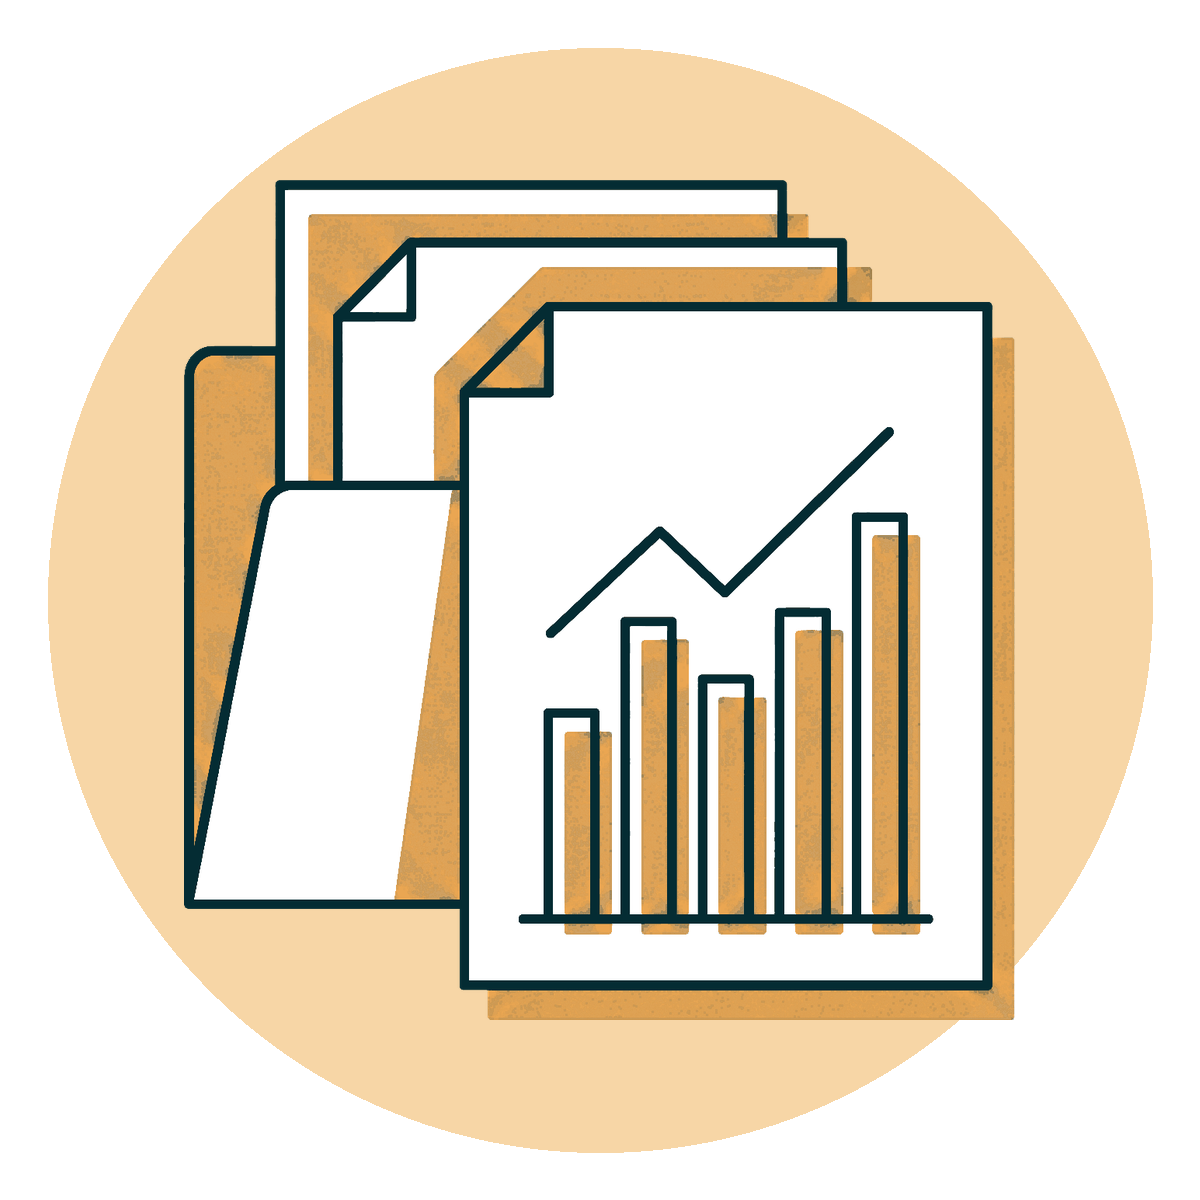
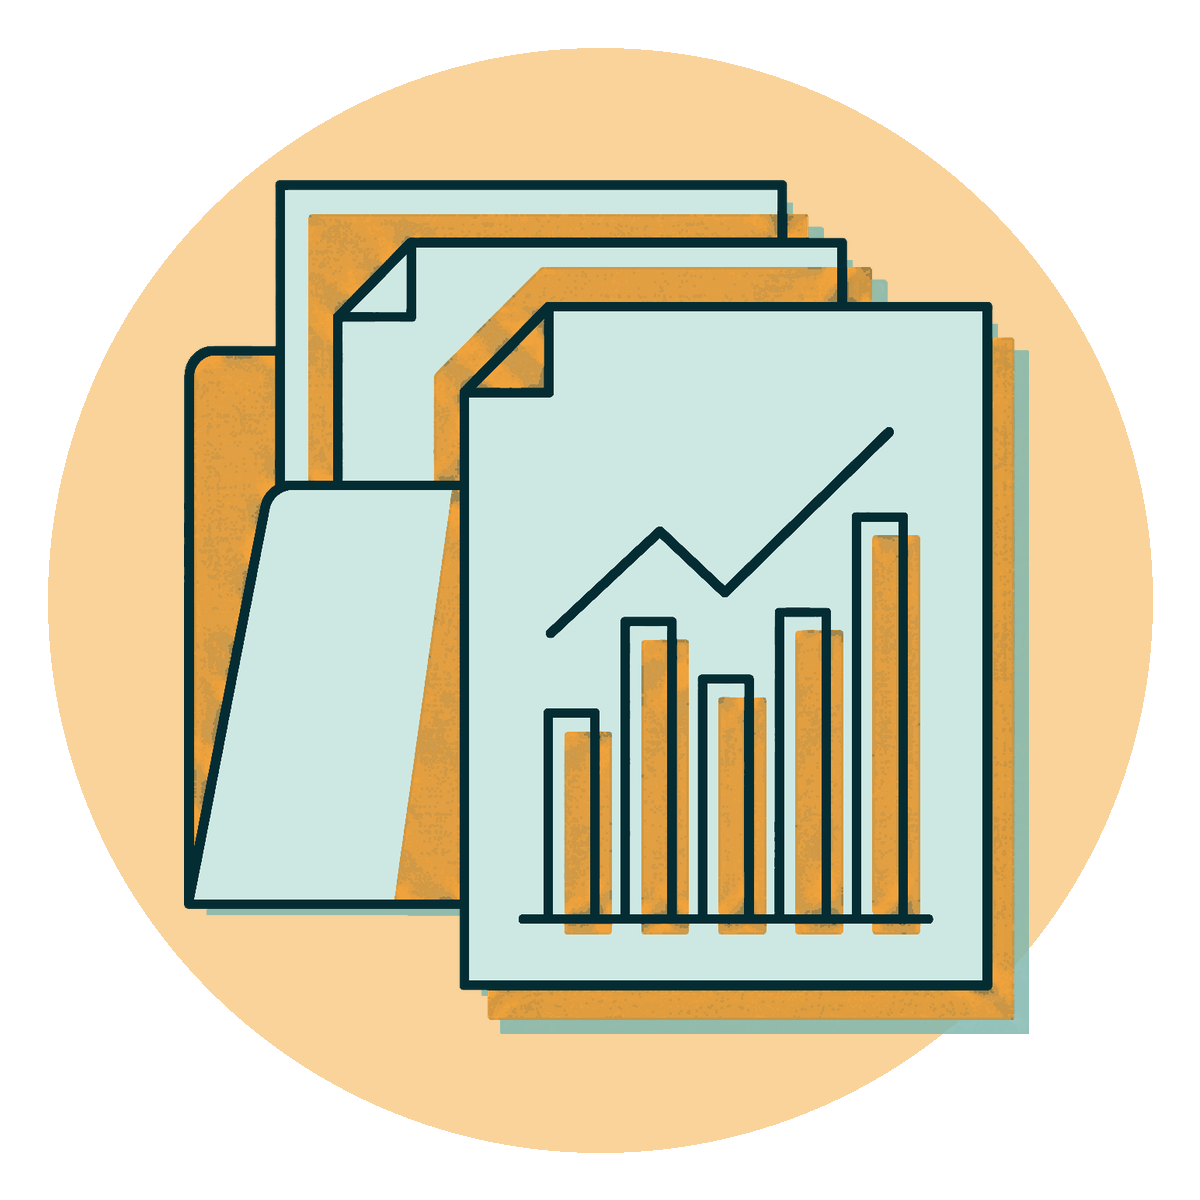
Restyle the illustrations: teal and amber on light, Night on dark
Light sections and cream cards get the teal-and-amber set (light teal
shapes, amber shading, amber disc); dark teal sections get the Night set
in illustrations/dark (cream line, teal shapes, amber highlights on a
deep teal disc). Both add a flat offset shadow under the filled areas.
Illustration takes a dark prop, set automatically from the section tone
on the schools and how-it-works pages. The unused plain/ set is removed.

Claude-Session: https://claude.ai/code/session_016LM5WEdwnhFo27JjNtgf3X

Changed region(s): [[0.1542, 0.1542, 0.8633, 0.8633]]

diff --git a/src/components/ui.tsx b/src/components/ui.tsx
@@ -207,22 +207,23 @@ export function Cta({ title, children, button = "Book a Demo" }: { title: ReactN
   );
 }
 
-/** One of the bold-filled line illustrations in /public/illustrations.
+/** One of the line illustrations in /public/illustrations: "Teal and amber"
+    for light grounds and cream cards, "Night" (dark/) on dark teal sections.
     Decorative by default (the text beside it says the same thing). */
 export function Illustration({
   name,
   alt = "",
   className = "",
-  plain = false,
+  dark = false,
 }: {
   name: string;
   alt?: string;
   className?: string;
-  plain?: boolean;
+  dark?: boolean;
 }) {
   return (
     <Image
-      src={`/illustrations/${plain ? "plain/" : ""}${name}.png`}
+      src={`/illustrations/${dark ? "dark/" : ""}${name}.png`}
       alt={alt}
       width={1200}
       height={1200}

diff --git a/src/app/how-it-works/page.tsx b/src/app/how-it-works/page.tsx
@@ -111,7 +111,7 @@ export default function HowItWorksPage() {
               </blockquote>
             </div>
             {p.image && <CirclePhoto src={p.image} alt={p.imageAlt ?? ""} />}
-            {p.illustration && <Illustration name={p.illustration} className="mx-auto max-w-[380px]" />}
+            {p.illustration && <Illustration name={p.illustration} dark={p.tone === "dark"} className="mx-auto max-w-[380px]" />}
           </div>
           <div className="mt-14">
             <Details

diff --git a/src/app/schools/page.tsx b/src/app/schools/page.tsx
@@ -36,7 +36,7 @@ function Capability({
           </Lede>
         </div>
         {image && <CirclePhoto src={image} alt={imageAlt} />}
-        {illustration && <Illustration name={illustration} className="mx-auto max-w-[380px]" />}
+        {illustration && <Illustration name={illustration} dark={tone === "dark"} className="mx-auto max-w-[380px]" />}
       </div>
       <div className="mt-14">
         <Details tone={tone} items={items} />

diff --git a/scripts/recolour-illustrations.py b/scripts/recolour-illustrations.py
@@ -1,28 +1,39 @@
-# Render the DYCH line illustrations in the site's "bold filled" style.
+# Render the DYCH line illustrations in the site's two styles.
 # Usage: python3 scripts/recolour-illustrations.py public/illustrations/source-violet public/illustrations
-# Writes <name>.png (on an amber disc) and plain/<name>.png (no disc).
-# Change the colours below to match a different scheme, then re-run.
+#
+#   <name>.png       "Teal and amber", for light sections and cream cards
+#   dark/<name>.png  "Night", for dark teal sections
+#
+# Both: closed shapes filled solid, the original shading in a second colour,
+# a heavier line, a disc behind, and a flat offset shadow under the filled
+# areas only (so open strokes are never doubled). Change the colours below
+# and re-run to restyle the whole set.
 import sys, glob, os
 from PIL import Image, ImageFilter, ImageDraw, ImageChops
 
 SRC, OUT = sys.argv[1], sys.argv[2]
 SIZE = 1200
-LINE = (4, 44, 51)          # teal ink
-SHAPE = (255, 255, 255)     # closed shapes filled solid white
-SHADE = (234, 166, 82)      # the original shading, in amber
-DISC = (247, 214, 166)      # soft amber disc behind each drawing
+
+STYLES = {
+    "": dict(line="#042c33", shape="#cde8e3", shade="#f0a33c", disc="#f9d39a", shadow="#7fb7ae"),
+    "dark": dict(line="#f7e7ce", shape="#156373", shade="#f2a83b", disc="#0b3f47", shadow="#031f24"),
+}
+
+
+def rgb(h):
+    h = h.lstrip("#")
+    return tuple(int(h[i:i + 2], 16) for i in (0, 2, 4))
 
 
 def masks(path):
     a = Image.open(path).convert("RGBA").getchannel("A")
-    # Lines: anything reasonably opaque, pushed to full strength so faint
-    # strokes match the heavy ones.
+    # Lines: anything reasonably opaque, pushed to full strength.
     line = a.point(lambda v: 0 if v < 60 else min(255, int((v - 60) * 255 / 70)))
     # Shading: the flat translucent tint areas, minus the anti-aliased fringe.
     shade = a.point(lambda v: 255 if 4 <= v < 100 else 0).filter(ImageFilter.MedianFilter(5))
     shade = ImageChops.subtract(shade, line)
-    # Closed shapes: every non-line pixel the outside cannot reach without
-    # crossing a line, found by flood-filling from a padded border.
+    # Closed shapes: non-line pixels the outside cannot reach without crossing
+    # a line, found by flood-filling from a padded border.
     hard = line.point(lambda v: 255 if v > 90 else 0).filter(ImageFilter.MaxFilter(3))
     pad = Image.new("L", (a.width + 4, a.height + 4), 0)
     pad.paste(hard, (2, 2))
@@ -32,34 +43,41 @@ def masks(path):
     return line, shade, shape
 
 
-def layer(size, rgb, mask):
-    im = Image.new("RGBA", size, rgb + (0,))
+def layer(size, colour, mask):
+    im = Image.new("RGBA", size, rgb(colour) + (0,))
     im.putalpha(mask)
     return im
 
 
-def place(art, disc):
-    art = art.crop(art.getbbox())
+def render(line, shade, shape, o):
+    size = line.size
+    solid = ImageChops.lighter(shape, shade).filter(ImageFilter.MaxFilter(5))
+    art = Image.new("RGBA", size, (0, 0, 0, 0))
+    art = Image.alpha_composite(art, layer(size, o["shape"], shape))
+    art = Image.alpha_composite(art, layer(size, o["shade"], shade))
+    art = Image.alpha_composite(art, layer(size, o["line"], line.filter(ImageFilter.MaxFilter(3))))
+    bbox = art.getbbox()
+    art, solid = art.crop(bbox), solid.crop(bbox)
     box = int(SIZE * 0.70)
     s = min(box / art.width, box / art.height)
     art = art.resize((int(art.width * s), int(art.height * s)), Image.LANCZOS)
+    solid = solid.resize(art.size, Image.LANCZOS)
     canvas = Image.new("RGBA", (SIZE, SIZE), (0, 0, 0, 0))
-    if disc:
-        r, c = int(SIZE * 0.46), SIZE // 2
-        ImageDraw.Draw(canvas).ellipse((c - r, c - r, c + r, c + r), fill=DISC + (255,))
-    canvas.alpha_composite(art, ((SIZE - art.width) // 2, (SIZE - art.height) // 2))
+    r, c = int(SIZE * 0.46), SIZE // 2
+    ImageDraw.Draw(canvas).ellipse((c - r, c - r, c + r, c + r), fill=rgb(o["disc"]) + (255,))
+    x, y = (SIZE - art.width) // 2, (SIZE - art.height) // 2
+    shadow = Image.new("RGBA", art.size, rgb(o["shadow"]) + (0,))
+    shadow.putalpha(solid.point(lambda v: int(v * 0.85)))
+    canvas.alpha_composite(shadow, (x + 14, y + 14))
+    canvas.alpha_composite(art, (x, y))
     return canvas
 
 
-os.makedirs(os.path.join(OUT, "plain"), exist_ok=True)
 for f in sorted(glob.glob(os.path.join(SRC, "*.png"))):
     line, shade, shape = masks(f)
-    size = line.size
-    art = Image.new("RGBA", size, (0, 0, 0, 0))
-    art = Image.alpha_composite(art, layer(size, SHAPE, shape))
-    art = Image.alpha_composite(art, layer(size, SHADE, shade))
-    art = Image.alpha_composite(art, layer(size, LINE, line.filter(ImageFilter.MaxFilter(3))))
     name = os.path.splitext(os.path.basename(f))[0]
-    place(art, True).save(os.path.join(OUT, name + ".png"), optimize=True)
-    place(art, False).save(os.path.join(OUT, "plain", name + ".png"), optimize=True)
+    for sub, o in STYLES.items():
+        d = os.path.join(OUT, sub)
+        os.makedirs(d, exist_ok=True)
+        render(line, shade, shape, o).save(os.path.join(d, name + ".png"), optimize=True)
     print("done", name)
